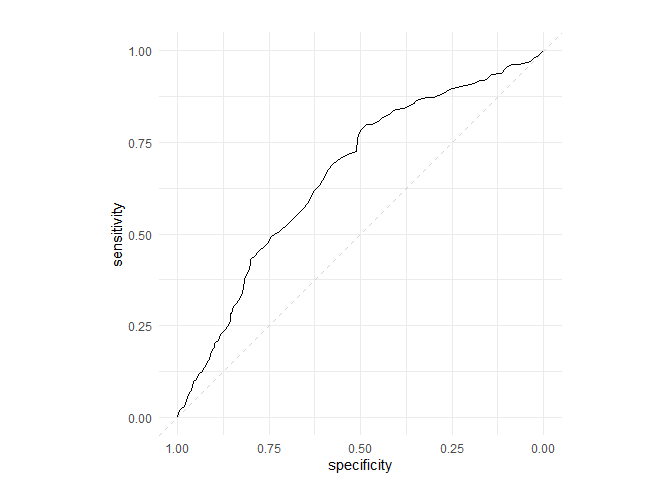
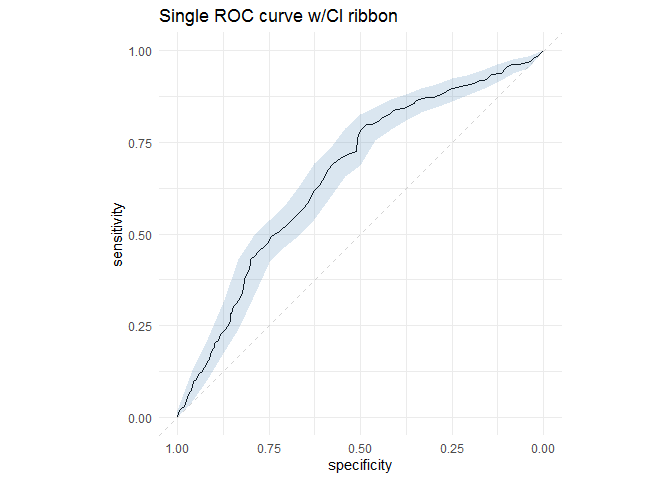
updated readme

Changed region(s): [[0.25, 0.0938, 0.8125, 0.875], [0.2188, 0.0, 0.5938, 0.0625]]

diff --git a/README.md b/README.md
@@ -181,37 +181,17 @@ cal_plot_multi(multi_model_dataset,
 
 <img src="man/figures/README-unnamed-chunk-13-1.png" width="100%" />
 
-## ROC curve w/o CI ribbon
-
-``` r
-roc_plot(single_model_dataset, 
-         outcome = 'outcomes', 
-         prediction = 'predictions')
-```
-
-<img src="man/figures/README-unnamed-chunk-14-1.png" width="100%" />
-
 ## ROC curve w/CI
 
 ``` r
 roc_plot(single_model_dataset, 
          outcome = 'outcomes', 
-         prediction = 'predictions', 
-         ci = TRUE)
+         prediction = 'predictions',
+         ci = TRUE, 
+         plot_title = 'Single ROC curve w/CI ribbon')
 ```
 
-<img src="man/figures/README-unnamed-chunk-15-1.png" width="100%" />
-
-## Multiple ROC curves w/o CI
-
-``` r
-roc_plot_multi(multi_model_dataset, 
-         outcome = 'outcomes', 
-         prediction = 'predictions', 
-         model = 'model_name')
-```
-
-<img src="man/figures/README-unnamed-chunk-16-1.png" width="100%" />
+<img src="man/figures/README-unnamed-chunk-14-1.png" width="100%" />
 
 ## Multiple ROC curves w/CI ribbons
 
@@ -219,8 +199,9 @@ roc_plot_multi(multi_model_dataset,
 roc_plot_multi(multi_model_dataset, 
          outcome = 'outcomes', 
          prediction = 'predictions', 
-         model = 'model_name', 
-         ci = TRUE)
+         model = 'model_name',
+         ci = TRUE,
+         plot_title = 'Multiple model ROC curves w/CI ribbons')
 ```
 
-<img src="man/figures/README-unnamed-chunk-17-1.png" width="100%" />
+<img src="man/figures/README-unnamed-chunk-15-1.png" width="100%" />
